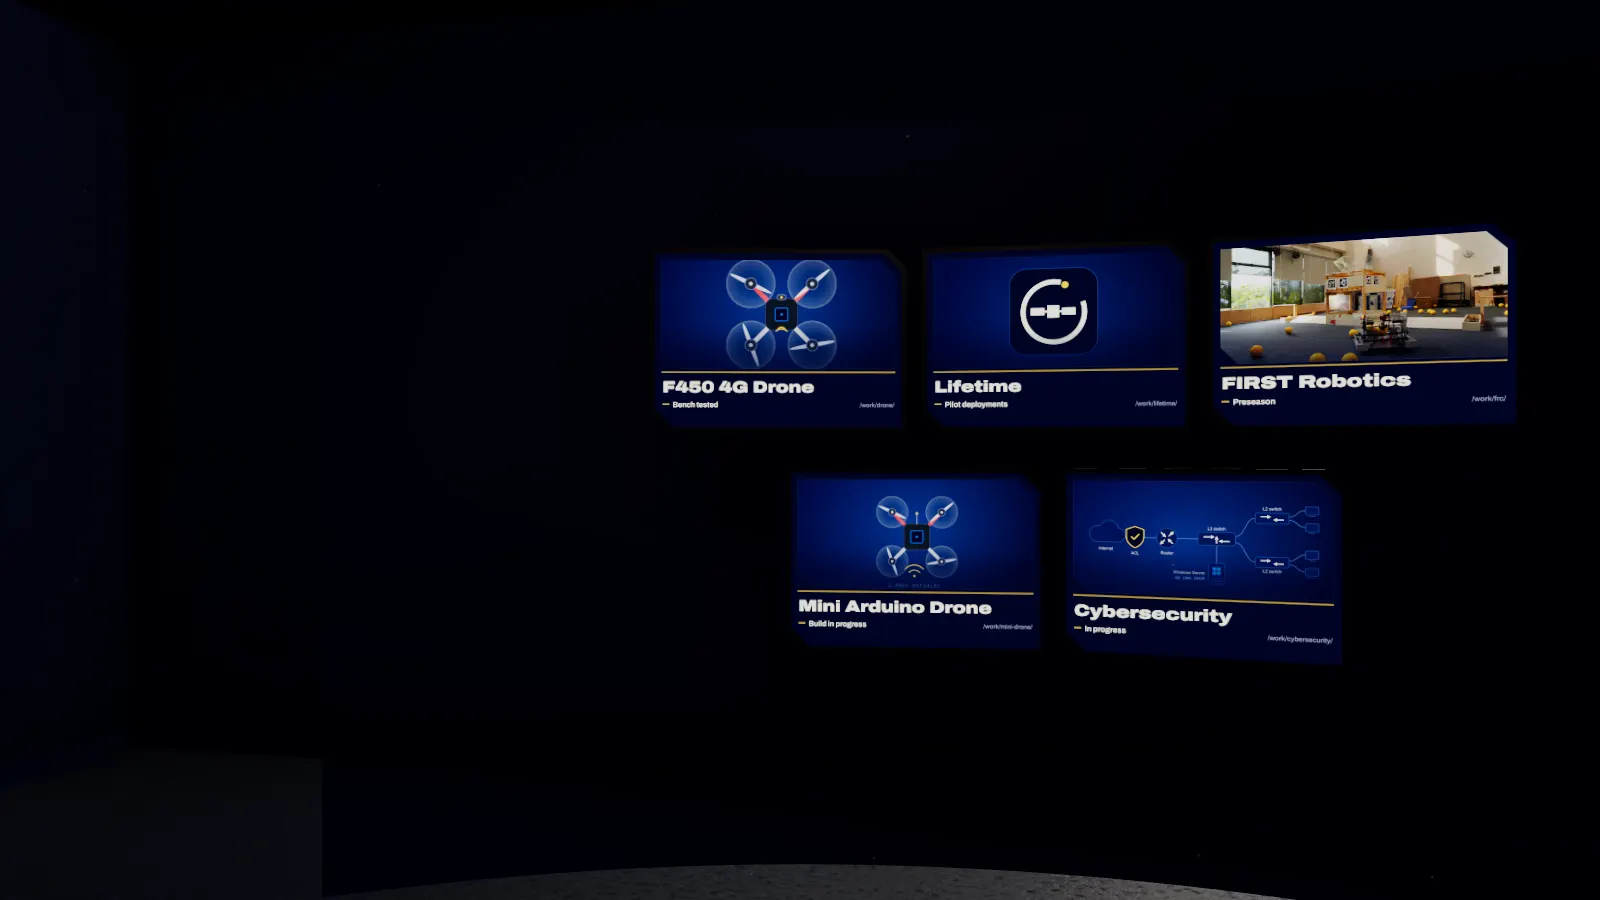
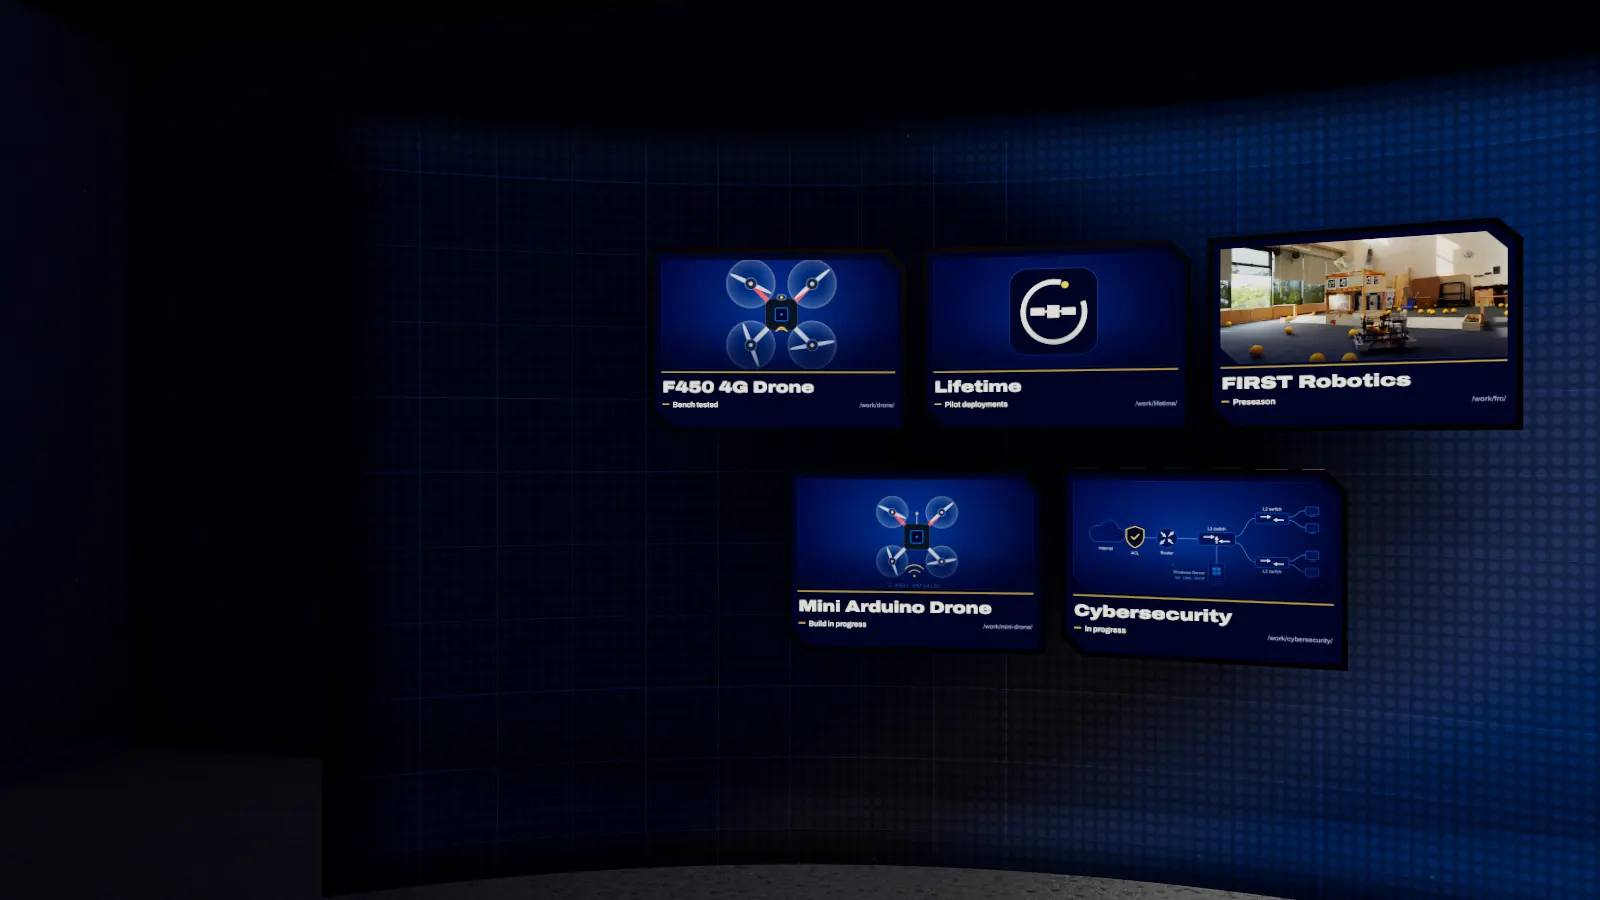
Studio: the wall of projects in front of an LED video wall
The plain dark wall behind the five panels is now a curved LED wall, switched on: slow bands of the brand's blue with
a glint of its yellow, a blueprint grid scrolling sideways, a scan line sweeping down, and the LEDs' dot pattern, all
in one shader (nothing to download). It plays while its scene is near and comes up with the room's lamp.

Changed region(s): [[0.5625, 0.0622, 1.0, 1.0]]

diff --git a/src/lib/studio/stations.ts b/src/lib/studio/stations.ts
@@ -9,7 +9,8 @@
  *   Networks   a switch rack with blinking port lights and patch cables
  *   Testing    the test bench: a laptop on the F450's ground station (its page scrolls with the mouse wheel; screens.ts)
  *              and an easel whiteboard with the bench test. Its scene id stays "web" (links and the camera use it).
- *   The wall   one panel per project, on an arc; they turn to face the camera one after another
+ *   The wall   one panel per project, on an arc, in front of a curved LED video wall; they turn to face the camera one
+ *              after another
  *   Standards  the whiteboard (the standards and the three steps, written out as the scene opens) and the binders
  *   Timeline   the long window: night sky in the dark theme, dusk in the light one; a year on each pane
  *   The crew   the table, two chairs, a portrait screen behind each
@@ -31,6 +32,7 @@ import {
 	MeshStandardMaterial,
 	Object3D,
 	PlaneGeometry,
+	ShaderMaterial,
 	ShapeGeometry,
 	TubeGeometry,
 	Vector3,
@@ -461,13 +463,54 @@ export async function buildStations(ctx: StageContext, parent: Group, content: R
 	/* ================================================================== */
 	// The arc's centre is where the camera stands for this scene (scenes.ts), so every panel is the same distance away.
 	const arc = { x: 3.6, z: 1.0, r: 3.9, step: 0.231, y: 1.45, row: 0.73, scale: 0.685 };
-	const wallBack = new Mesh(
-		new CylinderGeometry(arc.r + 0.2, arc.r + 0.2, 2.6, 48, 1, true, Math.PI / 2 - 0.6, 1.2),
-		new MeshStandardMaterial({ color: 0x0e1834, roughness: 0.9, side: DoubleSide }),
-	);
+	// Behind the panels, the curved wall is an LED video wall, switched on: slow bands of the brand's blue and a little
+	// yellow drift across it, a blueprint grid scrolls, a scan line sweeps down, and the LEDs' dot pattern shows up close.
+	// Drawn in its shader (nothing to download); it moves only while its scene is near (uTime, set in update).
+	const ledWall = new ShaderMaterial({
+		side: DoubleSide,
+		uniforms: { uTime: { value: 0 }, uLevel: { value: 1 } },
+		vertexShader: `
+			varying vec2 vUv;
+			void main() {
+				vUv = uv;
+				gl_Position = projectionMatrix * modelViewMatrix * vec4(position, 1.0);
+			}`,
+		fragmentShader: `
+			uniform float uTime;
+			uniform float uLevel;
+			varying vec2 vUv;
+			const vec2 SIZE = vec2(${((arc.r + 0.2) * 1.2).toFixed(2)}, 2.6); // the wall in metres
+			void main() {
+				vec2 p = vUv * SIZE;
+				float t = uTime;
+				// the light: two slow bands, the brand's blue and a little of its yellow
+				float b1 = sin(p.x * 0.9 + t * 0.22 + sin(p.y * 1.3 - t * 0.18) * 1.2);
+				float b2 = sin(p.x * 0.55 - t * 0.15 + p.y * 0.8);
+				vec3 col = vec3(0.012, 0.022, 0.085);
+				col = mix(col, vec3(0.06, 0.22, 0.70), smoothstep(0.15, 1.0, b1) * 0.5);
+				col += vec3(0.90, 0.66, 0.08) * smoothstep(0.82, 1.0, b2) * 0.07; // added, not mixed: no grey between blue and yellow
+				// a blueprint grid, 25 cm, scrolling slowly sideways
+				vec2 g = p * 4.0 + vec2(t * 0.06, 0.0);
+				vec2 d = abs(fract(g) - 0.5) / fwidth(g);
+				float line = 1.0 - clamp(min(d.x, d.y) - 0.5 * fwidth(g.x) * 0.0, 0.0, 1.0);
+				col += vec3(0.20, 0.38, 0.85) * line * 0.12;
+				// a scan line sweeping down every 14 s
+				float scan = exp(-pow((vUv.y - (1.0 - fract(t / 14.0))) * 28.0, 2.0));
+				col += vec3(0.30, 0.50, 1.00) * scan * 0.07;
+				// the LEDs: round dots 4 cm apart, softened by their own size on screen (no shimmer far away)
+				vec2 led = fract(p * 25.0) - 0.5;
+				float w = fwidth(p.x * 25.0);
+				float dotOn = 1.0 - smoothstep(0.30 - w, 0.42 + w, length(led));
+				col *= mix(1.0, 0.62 + 0.38 * dotOn, clamp(1.0 - w * 2.0, 0.0, 1.0));
+				// its edges darker, like a screen's bezel falloff
+				float edge = smoothstep(0.0, 0.06, vUv.x) * smoothstep(1.0, 0.94, vUv.x) * smoothstep(0.0, 0.08, vUv.y) * smoothstep(1.0, 0.92, vUv.y);
+				gl_FragColor = vec4(col * (0.25 + 0.75 * edge) * uLevel * 0.62, 1.0);
+				#include <colorspace_fragment>
+			}`,
+	});
+	const wallBack = new Mesh(new CylinderGeometry(arc.r + 0.2, arc.r + 0.2, 2.6, 48, 1, true, Math.PI / 2 - 0.6, 1.2), ledWall);
 	wallBack.position.set(arc.x, 1.3, arc.z);
 	group.add(wallBack);
-	themed.push({ mat: wallBack.material as MeshStandardMaterial, dark: 0x0a174e, light: 0xe8e2cc });
 	// The panel under the pointer (-1: none) lifts toward the camera, glows at its edge and brightens; the others dim a little.
 	let hovered = -1;
 	let wallHover = 0;
@@ -903,6 +946,9 @@ export async function buildStations(ctx: StageContext, parent: Group, content: R
 
 			// The wall: the panels turn to face the camera, one after another, as the scene opens.
 			const wallIn = near.wall ?? 0;
+			// Its video wall plays while its scene is near, and comes up with the room's lamp.
+			if (wallIn > 0.01) ledWall.uniforms.uTime.value += dt;
+			ledWall.uniforms.uLevel.value = 0.3 + 0.7 * level;
 			const settle = 1 - Math.exp(-14 * dt);
 			wallHover += ((hovered >= 0 ? 1 : 0) - wallHover) * settle;
 			panels.forEach((panel, i) => {
